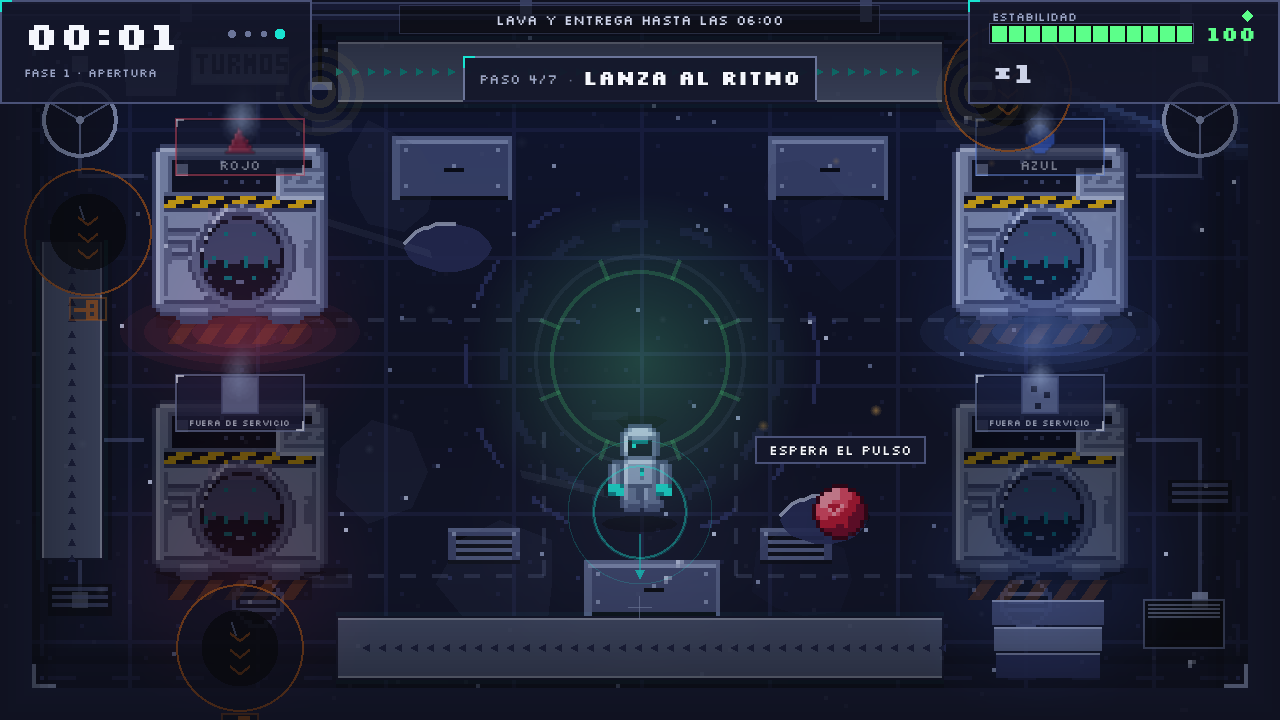
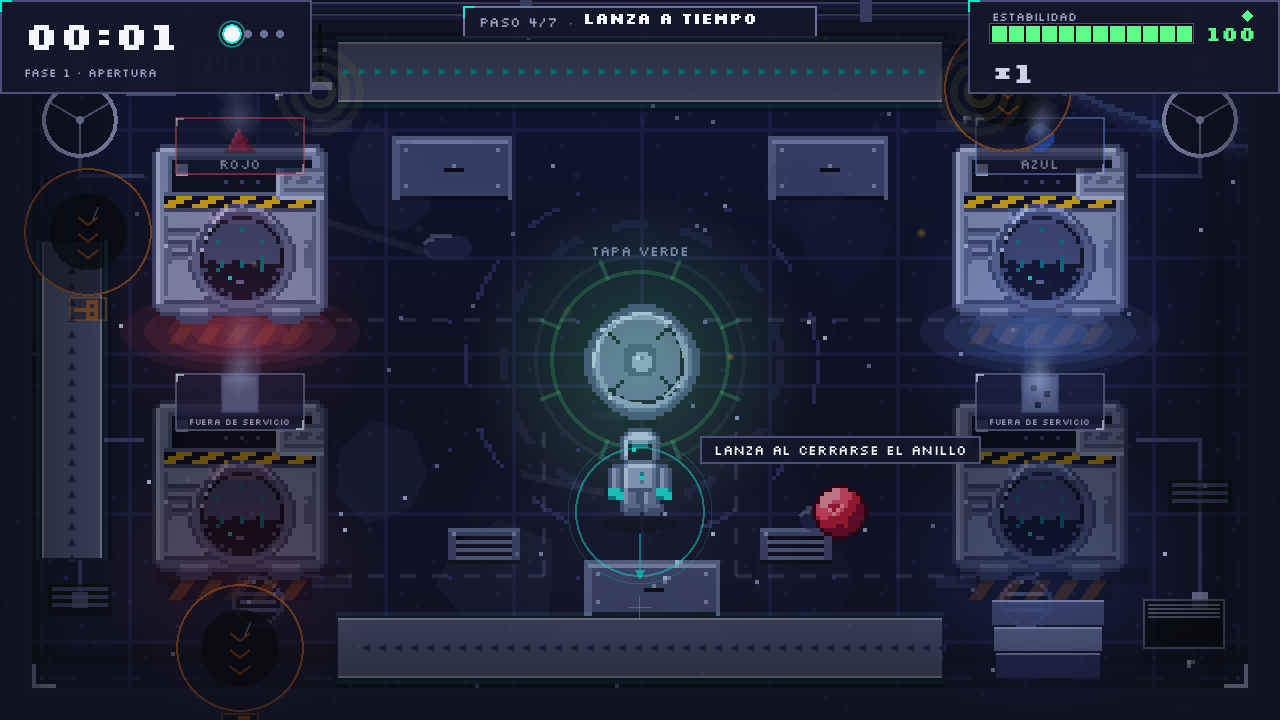
feat(difficulty,beat,clarity): 98 spawns, chute beat ring, grade rewards, item swatches, broken path, corner rescue, compact HUD

diff --git a/docs/DECISIONS.md b/docs/DECISIONS.md
@@ -299,3 +299,26 @@ assert the new numbers.
    chute when the throw points at it. This removes "it went to the wrong washer".
 6. **Copy**: gate 4 `Lanza al cerrarse el anillo`; gate 6 `Golpéala para que no explote`
    (turbulence named as the threat, not "calmar").
+
+## D040 — Playtest #4: pressure up, beat legible, item identity, broken machines
+2026-11-25 · Owner feedback after the audio/copy pass.
+1. **Difficulty up**: spawn cadence 6/5/4 s → **98 spawns per shift** (19/29/37/13).
+2. **Gradual ramp**: belts accelerate continuously to **+35 %** by 06:00 (`MainLevel._apply_speed_ramp`
+   on each beat), while the official phase marks stay frozen at 120/270/420 s and still own
+   BPM, assignments and the base spawn interval. A full spawn-interval ramp is left for M9.
+3. **Beat legibility**: the metronome click is now −9 dB (downbeat) / −12 dB, and the *chute*
+   carries the beat — a swelling ring plus four quadrant arcs, one per beat of the bar. The
+   active HUD dot also gained a white core and halo.
+4. **Rewards made explicit**: grade popups read `PERFECTO +2 combo` / `BIEN +1 combo` and each
+   grade has its own chime pitch. Previously the player could not know what a grade bought.
+5. **Item identity**: the carried-item chip moved **above Pip** (never occluded by the item)
+   at 16 px with a colour swatch (triangle/circle/square) and a pattern swatch (square/ring/
+   dots), because "moteado" was hard to read on a small sprite.
+6. **Broken path**: turbulence now starts in phase 2 (`AUTO_TURBULENCE_PHASE = 1`), so
+   explosions and `AVERIADA` are reachable before the last phase. Explosion posts an
+   `AVERIADA` chip and a HUD line; the auto-repair posts `REPARADA` with a green flash and a
+   bell. Locked machines now read `ABRE EN FASE 2/3` instead of the ambiguous "out of service".
+7. **Corner rescue**: a free item that has not moved for 3 s gets a 320 px/s nudge toward the
+   room centre, so items that pile at the far end of a reversed belt cannot stay stuck.
+8. **HUD smaller**: plaques 300×86 at 90 % instead of 312×94 at 97 %; holograms sit 64 px into
+   the cabinet so the drum is never covered.

diff --git a/docs/PROGRESS.md b/docs/PROGRESS.md
@@ -51,7 +51,7 @@ Updated after every milestone/workstream. Times are local (America/Bogota).
 ## M3 — done
 
 - Phase table 105/118/130/142, 3.5/2.4/1.7 s, belt activation per phase, convoy 4+4+4+1.
-- Pure `SpawnSchedule` (seeded, deterministic) → **11/18/24/13 = 66** spawns / 480 s
+- Pure `SpawnSchedule` (seeded, deterministic) → **19/29/37/13 = 98** spawns / 480 s
   (retuned from 197 in D036: the old cadence was 1.5× faster than one player).
 - `SpawnDirector.start/advance_to/seek/simulate`, alive cap 40, per-phase counts.
 - Belts steer velocity at 900 px/s², sock multiplier; phase-3 reversal is pure and warns
@@ -85,7 +85,7 @@ Updated after every milestone/workstream. Times are local (America/Bogota).
 | Audio contract | 16/16 checks (BPM drift ≤0.01 ms, peaks −1.3…−2.2 dBFS, Spanish glyphs) | `tools/verify_audio.py` |
 | Spawns / 480 s | 66 (11/18/24/13), seed 1234 | `tools/sim_run.gd` |
 | E2E playtest bot | 4 washes, 2 deliveries, 0 losses, 100 % throws, stability 94 (47 s gate) | `tools/playtest_bot.gd` |
-| Spawns / 480 s (v2) | 83 (17/24/29/13) after the second owner playtest | `tools/sim_run.gd` |
+| Spawns / 480 s (v3) | 98 (19/29/37/13) after playtest #4 | `tools/sim_run.gd` |
 | Belt reversal | warnings 60/124/188, flips 64/128/192 (130 BPM) | `test_belt_reversal*` |
 | Physics | 0.544 ms/tick for 40 bodies | `docs/M2_PHYSICS.md` |
 | Reported PulseAudio latency | 52.84 ms (headless Dummy = 0) | `docs/CALIBRATION.md` |

diff --git a/README.md b/README.md
@@ -36,7 +36,7 @@ their requirement holograms, and clean items go into the central delivery chute.
   fast/skittish sock, boomerang moon, bouncy gas giant, gravity-field galaxy core).
 - **The floor** — three conveyor belts with a pure 16-measure reversal schedule in phase 3,
   three vacuum shredders (−8 % stability each), deterministic phase-driven spawning
-  (11/18/24/13 = 66 items over 480 s, retuned to one player's throughput), the 480 s shift spine and a functional HUD.
+  (19/29/37/13 = 98 items over 480 s, retuned across four playtests), the 480 s shift spine and a functional HUD.
 - **HUD & affordances** — two corner plaques + a mission ribbon (no bottom instruction
   strip), segmented stability with numeric value and glyph, beat dots, a two-beat pulse ring
   around Pip, a four-state aim reticle (`LANZAR` / `NO` / `ENTREGAR`), contextual prompts and
@@ -93,7 +93,7 @@ godot --headless --path . -s tools/sim_run.gd -- --seed=1234
 ```
 
 Current state: **668 tests / 10,214 asserts green**, 29/29 sprite sheets pass the contract
-linter, 16/16 audio checks pass, and the 480 s simulation reports exactly 66 spawns. The
+linter, 16/16 audio checks pass, and the 480 s simulation reports exactly 98 spawns. The
 in-game frame is ~12.8 ms median on this llvmpipe box ([`docs/ENVIRONMENT.md`](docs/ENVIRONMENT.md)).
 
 ## Documentation
